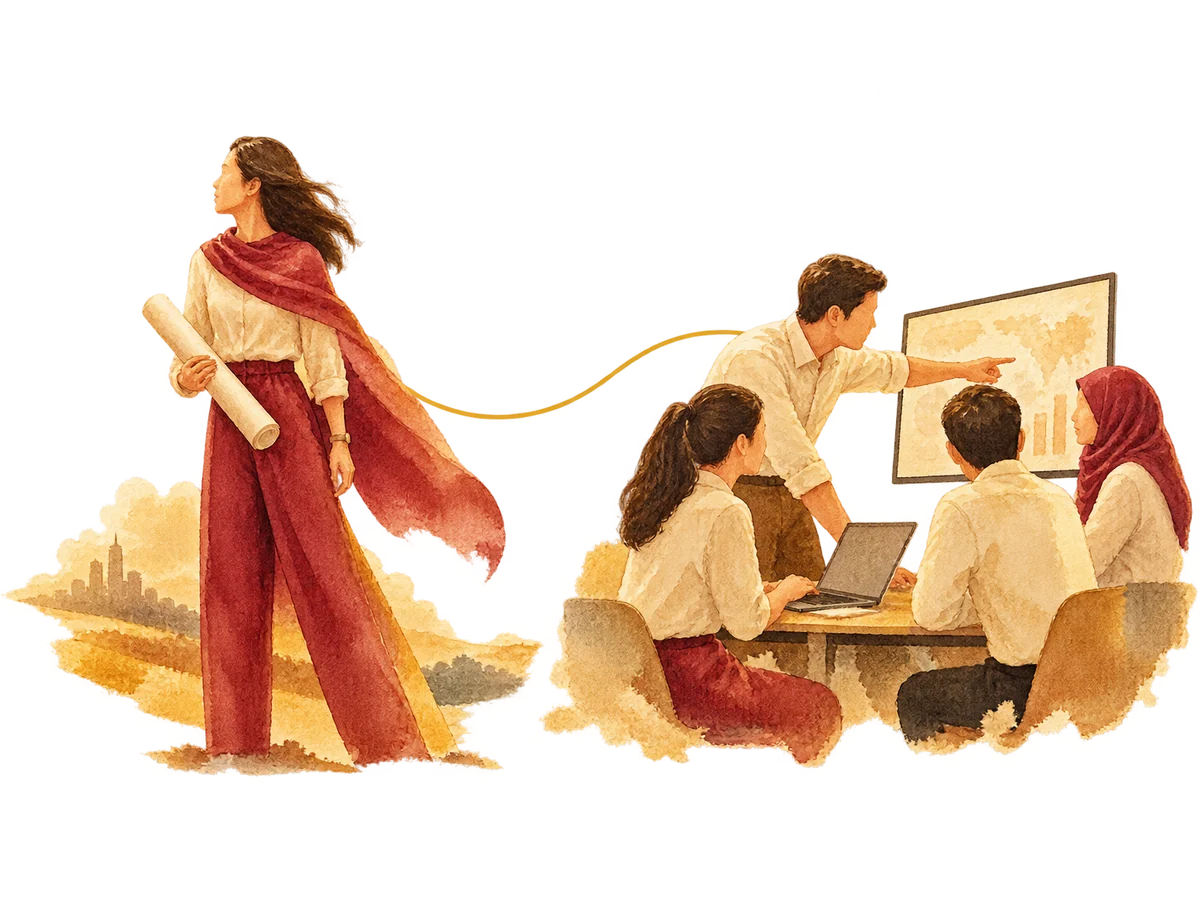
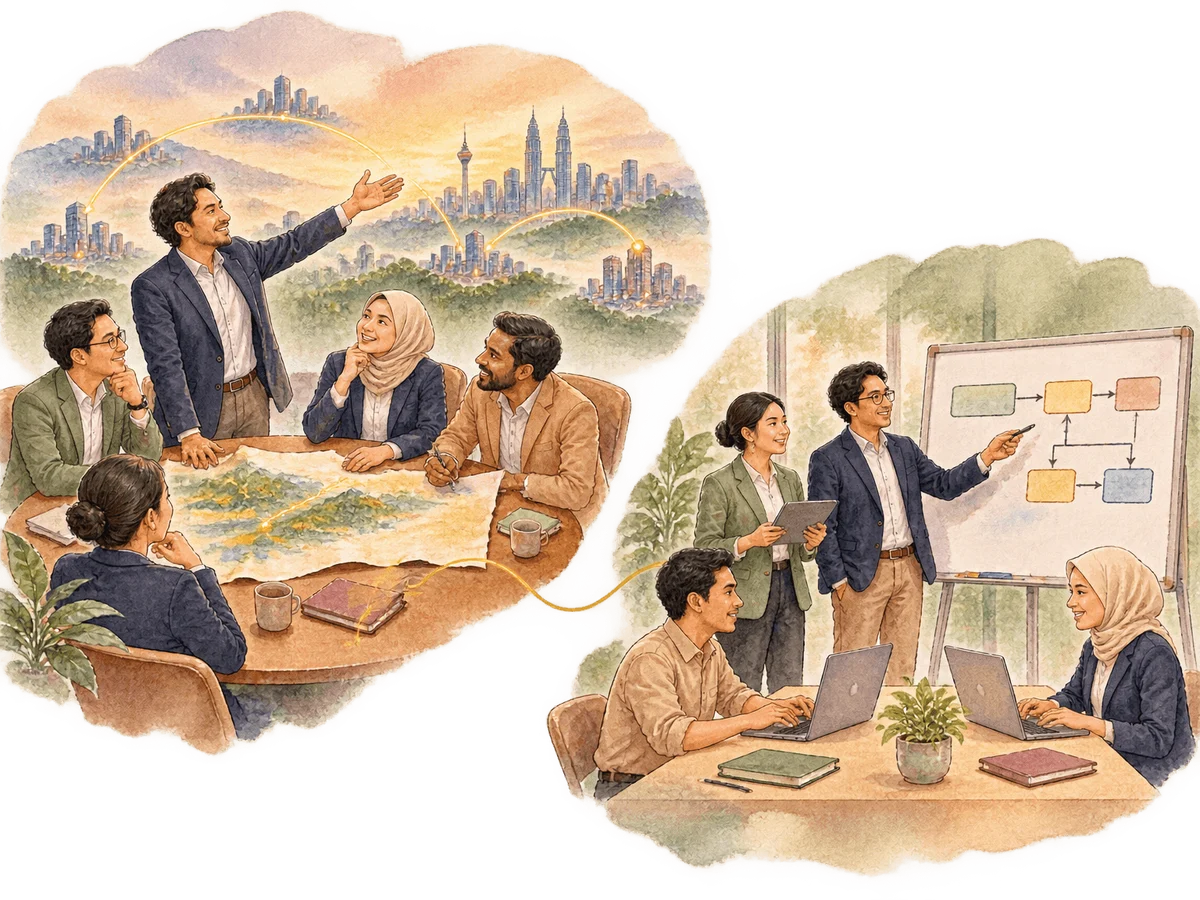
Round-table CEO picture, client results in their own words, HRD Corp badges from the current site
Claude-Session: https://claude.ai/code/session_01RuHVLx4WGbJiag7KhvmNeN

diff --git a/index.html b/index.html
@@ -2284,6 +2284,13 @@ a.wf-tile:focus-visible{outline:2px solid #D9AE50;outline-offset:3px}
   linear-gradient(180deg,#FBF3E6,#F2E4CE);border:1px solid rgba(200,148,30,.4);box-shadow:inset 0 0 60px rgba(120,70,30,.12)}
 .game .game-hud{color:#8B1E2D}
 .game .game-card{border:1px solid rgba(200,148,30,.45)}
+
+.vo-card .vo-now{display:block;font-size:10.5px;letter-spacing:.2em;text-transform:uppercase;font-weight:700;color:#C8941E;margin-bottom:5px}
+.vo-card.tone-b .vo-now{color:#F0CF7A}
+.hrd-set{display:flex;gap:12px;align-items:center}
+.hrd-set img{width:92px;height:92px;border-radius:50%;box-shadow:0 10px 24px -12px rgba(0,0,0,.7)}
+.hrd-no{margin:12px 0 0;font-size:12.5px;line-height:1.5;color:rgba(245,239,230,.75)}
+.hrd-no b{display:block;color:#F5EFE6;font-weight:600;font-size:13.5px}
 </style>
 </head>
 <body>
@@ -2526,7 +2533,7 @@ a.wf-tile:focus-visible{outline:2px solid #D9AE50;outline-offset:3px}
         <a class="btn btn-wine" href="#contact" data-topic="Train an AI Implementor">Train an AI Implementor <span class="arr" aria-hidden="true">&rarr;</span></a>
       </div>
       <figure class="coo-side">
-        <img src="media/ceo-pair.webp" alt="Watercolour of two people: one looking out to the horizon with a plan in hand, the other inside a small team at a shared screen, a fine gold line linking them" loading="lazy" decoding="async">
+        <img src="media/ceo-pair.webp" alt="Watercolour of two linked scenes: a group of founders, men and women, around a table sharing ideas with the city behind them, and a mixed team working through a process at a whiteboard and laptops" loading="lazy" decoding="async">
         <figcaption>
           <span><b>Your CEO</b>On the business. Direction, clients, growth.</span>
           <span><b>Your AI Implementor</b>In the business. Process, people, the daily run.</span>
@@ -2577,27 +2584,27 @@ a.wf-tile:focus-visible{outline:2px solid #D9AE50;outline-offset:3px}
         <p class="ch-mark"><span>07</span>Proof</p>
         <div class="eyebrow">What our clients say</div>
         <h2 id="vo-h">It started with a story. <em>Either a frustration or a bigger vision!</em></h2>
-        <p class="lead">The things founders and managers actually say to us, and what changed afterwards.</p>
+        <p class="lead">What founders and managers told us before we started, and what they tell us now.</p>
       </div>
       <p class="vo-hint" aria-hidden="true">Scroll across <span>&rarr;</span></p>
     </div>
   </div>
   <div class="vo-car" id="voCar" tabindex="0" role="region" aria-roledescription="carousel" aria-label="What our clients say, 14 cards" data-lenis-prevent-wheel>
     <div class="vo-track" id="voTrack">
-<figure class="vo-card tone-a"><span class="vo-tag">Visible</span><blockquote><p>I wanted to move abroad, but the business stays here. I need to run it from anywhere and still see what is happening.</p></blockquote><p class="vo-d">The whole operation moved onto one system you can open from anywhere, with a clear picture of where the business stands.</p><figcaption>Founder</figcaption></figure>
-<figure class="vo-card tone-b"><span class="vo-tag">Scale</span><blockquote><p>I want to scale, but waiting for my people to learn is too slow.</p></blockquote><p class="vo-d">A build plan. We assessed, built and walked the team through adopting it. The learning happened on live work instead of in a classroom.</p><figcaption>CEO</figcaption></figure>
-<figure class="vo-card tone-c"><span class="vo-tag">Consistent</span><blockquote><p>I wait three to five days for a video to come back from editing. By then the moment has passed.</p></blockquote><p class="vo-d">A month of content researched, planned, drafted and edited in-house, reviewed in about ten minutes before anything goes out.</p><figcaption>Property Agent</figcaption></figure>
-<figure class="vo-card tone-a"><span class="vo-tag">Visible</span><blockquote><p>I used to log in and dig through the HR data myself every time I needed a number.</p></blockquote><p class="vo-d">A dashboard and 24-hour assistant that give you the data you need in minutes.</p><figcaption>Finance Manager</figcaption></figure>
-<figure class="vo-card tone-b"><span class="vo-tag">Mapped</span><blockquote><p>I am sick of matching agreed costs against final costs. We used to do it line by line.</p></blockquote><p class="vo-d">The comparison runs itself and flags only what moved, so the conversation is about the three that changed, not the ninety that did not.</p><figcaption>Event Management</figcaption></figure>
-<figure class="vo-card tone-c"><span class="vo-tag">Mapped</span><blockquote><p>My team is busy all day and I cannot tell you what they are doing. They are good people. I just cannot see where it breaks.</p></blockquote><p class="vo-d">Every process written down with an owner. The right workplace practices put in place, and a daily report of where the time goes.</p><figcaption>Founder</figcaption></figure>
-<figure class="vo-card tone-a"><span class="vo-tag">Built</span><blockquote><p>There is paper everywhere in this office and we do not even know where AI would start.</p></blockquote><p class="vo-d">Foundation first. Paper became digital records. Then AI went on top of the part that was finally clean enough to automate.</p><figcaption>Managing Director</figcaption></figure>
-<figure class="vo-card tone-b"><span class="vo-tag">Protected</span><blockquote><p>We are bound by our board on data. We have to be careful. But if we do not move, we get left behind.</p></blockquote><p class="vo-d">A written AI policy with a PDPA check, clear rules for what may and may not go into a tool, and the team trained on both.</p><figcaption>Compliance Officer</figcaption></figure>
-<figure class="vo-card tone-c"><span class="vo-tag">Freedom</span><blockquote><p>I think I need to hire another admin to handle all the admin, so my key person can focus on the high-level work.</p></blockquote><p class="vo-d">The work was eighty percent repeat typing between two systems that could already talk to each other. No new headcount. It was a tech gap.</p><figcaption>Managing Director</figcaption></figure>
-<figure class="vo-card tone-a"><span class="vo-tag">Mapped</span><blockquote><p>Contracts, timelines, deliverables, who is in charge, what the client said. All of it in different places.</p></blockquote><p class="vo-d">One view of every job. A clear report of what is late, who it is waiting on, and what the client was last promised.</p><figcaption>Project Management</figcaption></figure>
-<figure class="vo-card tone-b"><span class="vo-tag">Claimable</span><blockquote><p>I used to spend days pulling supporting documents together for the auditor.</p></blockquote><p class="vo-d">With the records in order and a standard way of working, the audit pack is compiled in minutes instead of days.</p><figcaption>Accounts Department</figcaption></figure>
-<figure class="vo-card tone-c"><span class="vo-tag">Adopted</span><blockquote><p>I attended an AI preview for CEOs and came back clueless. They asked me to sign up for more training.</p></blockquote><p class="vo-d">A CEO does not need another course. A CEO needs a transformation partner who executes. We hear the vision, draw the plan, build it, and train the team.</p><figcaption>CEO</figcaption></figure>
-<figure class="vo-card tone-a"><span class="vo-tag">Consistent</span><blockquote><p>AI moves so fast. I finally learn something and it is out of date by the time I use it.</p></blockquote><p class="vo-d">One person inside the business trained to read what is new, test it, and decide what is worth adopting. The chasing stopped.</p><figcaption>CEO</figcaption></figure>
-<figure class="vo-card tone-b"><span class="vo-tag">Secured</span><blockquote><p>Everyone tells us what we cannot put into AI. Nobody tells us what we can.</p></blockquote><p class="vo-d">A one-page list of what is allowed, what needs a check and what never leaves the building. The team stopped guessing and started using it.</p><figcaption>HR Department</figcaption></figure>
+<figure class="vo-card tone-a"><span class="vo-tag">Visible</span><blockquote><p>I wanted to move abroad, but the business stays here. I need to run it from anywhere and still see what is happening.</p></blockquote><p class="vo-d"><span class="vo-now">Now</span>&ldquo;Now the whole operation sits on one system I can open from anywhere, with a clear picture of where the business stands.&rdquo;</p><figcaption>Founder</figcaption></figure>
+<figure class="vo-card tone-b"><span class="vo-tag">Scale</span><blockquote><p>I want to scale, but waiting for my people to learn is too slow.</p></blockquote><p class="vo-d"><span class="vo-now">Now</span>&ldquo;They assessed, built it and walked my team through adopting it. My people learned on live work instead of in a classroom.&rdquo;</p><figcaption>CEO</figcaption></figure>
+<figure class="vo-card tone-c"><span class="vo-tag">Consistent</span><blockquote><p>I wait three to five days for a video to come back from editing. By then the moment has passed.</p></blockquote><p class="vo-d"><span class="vo-now">Now</span>&ldquo;I now get a month of content researched, planned, drafted and edited in-house. I review it in about ten minutes before anything goes out.&rdquo;</p><figcaption>Property Agent</figcaption></figure>
+<figure class="vo-card tone-a"><span class="vo-tag">Visible</span><blockquote><p>I used to log in and dig through the HR data myself every time I needed a number.</p></blockquote><p class="vo-d"><span class="vo-now">Now</span>&ldquo;Now a dashboard and a 24-hour assistant give me the data I need in minutes.&rdquo;</p><figcaption>Finance Manager</figcaption></figure>
+<figure class="vo-card tone-b"><span class="vo-tag">Mapped</span><blockquote><p>I am sick of matching agreed costs against final costs. We used to do it line by line.</p></blockquote><p class="vo-d"><span class="vo-now">Now</span>&ldquo;The comparison runs itself now and flags only what moved. We talk about the three that changed, not the ninety that did not.&rdquo;</p><figcaption>Event Management</figcaption></figure>
+<figure class="vo-card tone-c"><span class="vo-tag">Mapped</span><blockquote><p>My team is busy all day and I cannot tell you what they are doing. They are good people. I just cannot see where it breaks.</p></blockquote><p class="vo-d"><span class="vo-now">Now</span>&ldquo;Every process is written down with an owner now. The right workplace practices are in place, and I get a daily report of where the time goes.&rdquo;</p><figcaption>Founder</figcaption></figure>
+<figure class="vo-card tone-a"><span class="vo-tag">Built</span><blockquote><p>There is paper everywhere in this office and we do not even know where AI would start.</p></blockquote><p class="vo-d"><span class="vo-now">Now</span>&ldquo;We started with the foundation. Our paper became digital records, then AI went on top of the part that was finally clean enough to automate.&rdquo;</p><figcaption>Managing Director</figcaption></figure>
+<figure class="vo-card tone-b"><span class="vo-tag">Protected</span><blockquote><p>We are bound by our board on data. We have to be careful. But if we do not move, we get left behind.</p></blockquote><p class="vo-d"><span class="vo-now">Now</span>&ldquo;We now have a written AI policy with a PDPA check, clear rules on what may and may not go into a tool, and a team trained on both.&rdquo;</p><figcaption>Compliance Officer</figcaption></figure>
+<figure class="vo-card tone-c"><span class="vo-tag">Freedom</span><blockquote><p>I think I need to hire another admin to handle all the admin, so my key person can focus on the high-level work.</p></blockquote><p class="vo-d"><span class="vo-now">Now</span>&ldquo;It turned out the work was eighty percent repeat typing between two systems that could already talk to each other. I did not need to hire. It was a tech gap.&rdquo;</p><figcaption>Managing Director</figcaption></figure>
+<figure class="vo-card tone-a"><span class="vo-tag">Mapped</span><blockquote><p>Contracts, timelines, deliverables, who is in charge, what the client said. All of it in different places.</p></blockquote><p class="vo-d"><span class="vo-now">Now</span>&ldquo;I have one view of every job now: what is late, who it is waiting on, and what the client was last promised.&rdquo;</p><figcaption>Project Management</figcaption></figure>
+<figure class="vo-card tone-b"><span class="vo-tag">Claimable</span><blockquote><p>I used to spend days pulling supporting documents together for the auditor.</p></blockquote><p class="vo-d"><span class="vo-now">Now</span>&ldquo;With our records in order and a standard way of working, I compile the audit pack in minutes instead of days.&rdquo;</p><figcaption>Accounts Department</figcaption></figure>
+<figure class="vo-card tone-c"><span class="vo-tag">Adopted</span><blockquote><p>I attended an AI preview for CEOs and came back clueless. They asked me to sign up for more training.</p></blockquote><p class="vo-d"><span class="vo-now">Now</span>&ldquo;I did not need another course. I needed a partner who executes. They heard my vision, drew the plan, built it and trained my team.&rdquo;</p><figcaption>CEO</figcaption></figure>
+<figure class="vo-card tone-a"><span class="vo-tag">Consistent</span><blockquote><p>AI moves so fast. I finally learn something and it is out of date by the time I use it.</p></blockquote><p class="vo-d"><span class="vo-now">Now</span>&ldquo;Now one person inside my business is trained to read what is new, test it and decide what is worth adopting. I stopped chasing.&rdquo;</p><figcaption>CEO</figcaption></figure>
+<figure class="vo-card tone-b"><span class="vo-tag">Secured</span><blockquote><p>Everyone tells us what we cannot put into AI. Nobody tells us what we can.</p></blockquote><p class="vo-d"><span class="vo-now">Now</span>&ldquo;We now have a one-page list of what is allowed, what needs a check and what never leaves the building. The team stopped guessing and started using it.&rdquo;</p><figcaption>HR Department</figcaption></figure>
 </div>
   </div>
   <div class="wrap"><aside class="call-band reveal" aria-label="Book the strategy call"><div class="cb-in"><p class="cb-t"><b>Hear your own business in there?</b><span>Thirty minutes. We send you a report with three actions you can start on yourself.</span></p><a class="btn btn-wine" href="#contact" data-topic="Book a 30-minute strategy call">Book a free 30-minute strategy call <span class="arr" aria-hidden="true">&rarr;</span></a></div></aside></div>
@@ -2839,7 +2846,8 @@ a.wf-tile:focus-visible{outline:2px solid #D9AE50;outline-offset:3px}
       <a href="mailto:contact@aqueenix.com">contact@aqueenix.com</a>
     </address>
     <div class="foot-hrd">
-      <div class="hrd-badge" role="img" aria-label="HRD Corp Registered Training Provider"><span class="hrd-mark">HRD<br>Corp</span><span class="hrd-t"><b>Registered Training Provider</b>HRD Corp Claimable training</span></div>
+      <div class="hrd-set"><img src="media/hrd-registered.webp" alt="HRD Corp Registered Training Provider" width="92" height="92" loading="lazy" decoding="async"><img src="media/hrd-claimable.webp" alt="HRD Corp Claimable" width="92" height="92" loading="lazy" decoding="async"></div>
+      <p class="hrd-no"><b>HRD Corp Registered Training Provider</b>HRD Corp No. 1632966K</p>
     </div>
   </div>
   <div class="wrap foot-base">
